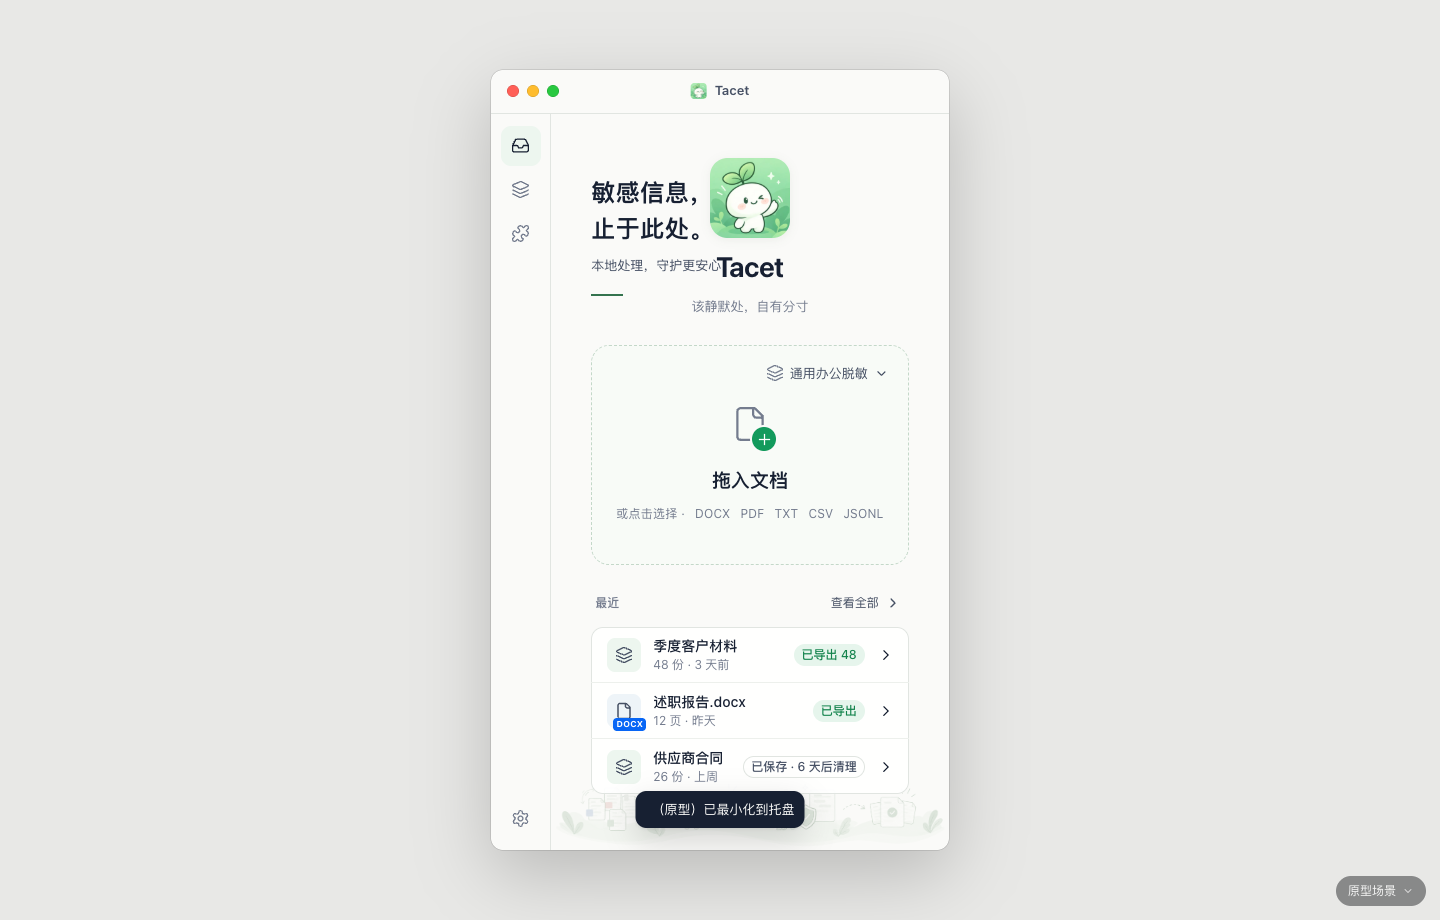
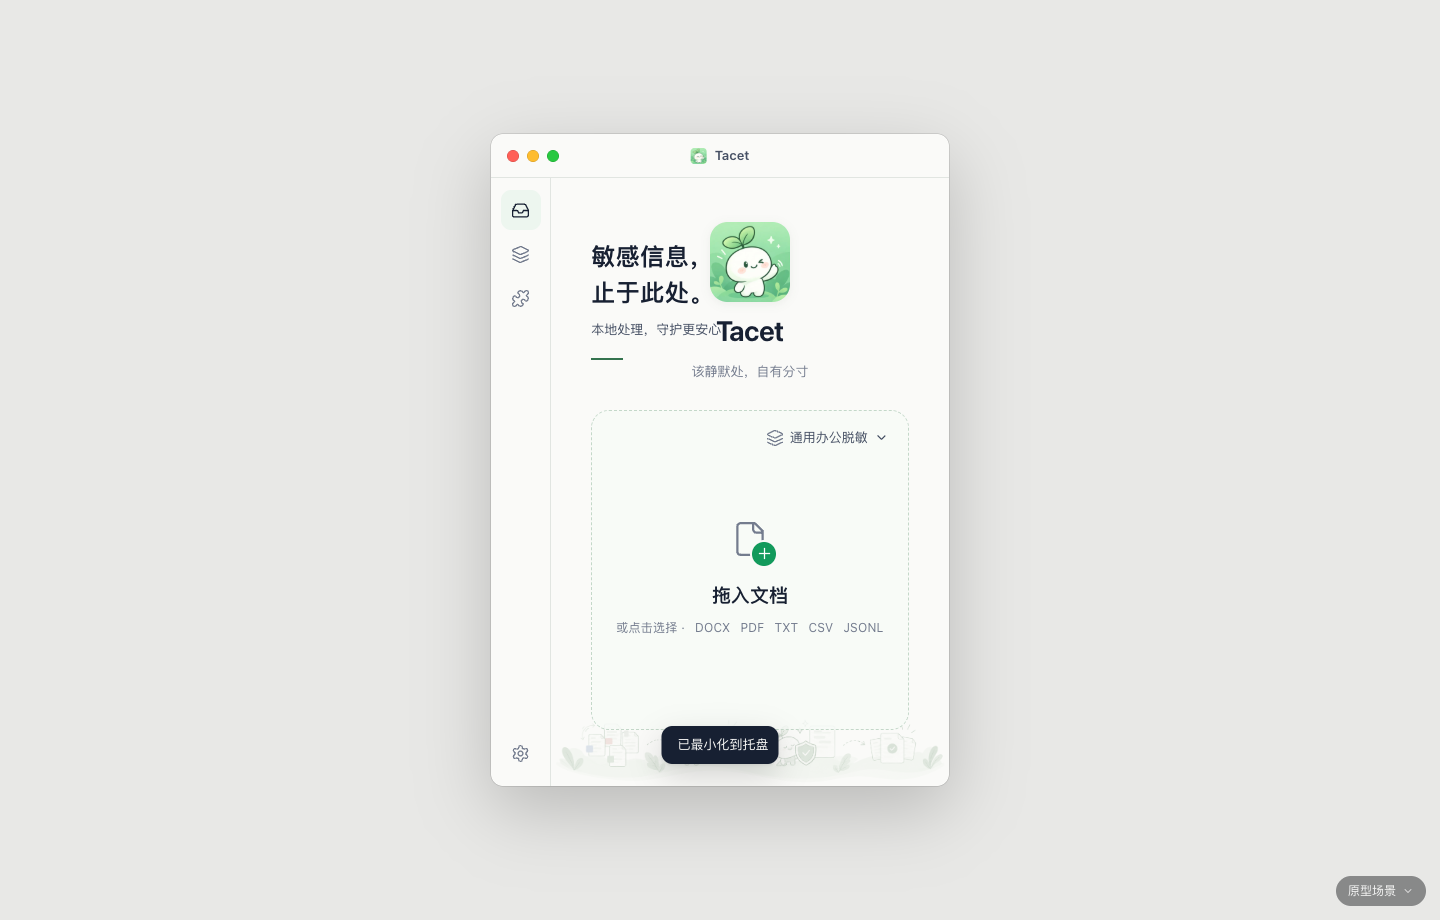
docs(ui): 📝 Refresh desktop shell walkthrough

diff --git a/frontend/docs/prototype-inventory.md b/frontend/docs/prototype-inventory.md
@@ -11,7 +11,8 @@
 | 领域数据 | `src/domain` | 类别、示例文档、批量例外分组、模型状态文案、场景清单、图标（逐字取自原型） |
 | 界面引擎 | `src/engine` | 原型脚本按小节移植为 TypeScript 模块（shell/layer/models/home/single/batch/review/presets/plugins/settings/actions/events/proto），行为、状态机与文案与原型一致；`runtime.ts` 承载 DOM 助手、确定性随机数与计时器句柄；`state.ts` 为单一状态对象 |
 | 服务接口 | `src/services` | `TacetService` 接口 + `mock`（浏览器/测试）与 `wails`（只实现 `Service.AppInfo`，与 internal/gui 现有绑定兼容）；下载、安装、更新、导出均为模拟，不伪造为真实现 |
-| 外壳 | `src/App.tsx` | React 渲染窗口外壳（标题栏、导航、主区、弹层、场景导航），引擎填充内容 |
+| 外壳 | `src/App.tsx`、`src/styles/host.css` | React 渲染窗口外壳；桌面宿主（Wails）下由系统画窗口框架，标题栏为拖拽区，浏览器下由引擎画替身窗口 |
+| 宿主 | `src/services`、`internal/gui/window.go` | 关闭/最小化/退出经 `TacetService`；Go 侧拦截用户关闭并发事件 `tacet:close-requested`，前端就绪（`CloseHandlerReady`）前保持原生关闭行为 |
 | 导航 | state `view` + `navStack` | 不使用路由库；任务（首页/单份/批量/历史结果）、方案、插件、设置；URL `#scene=` 直达场景 |
 | 测试 | `src/test`、`scripts` | Vitest + Testing Library（66 项）；`scripts/compare.mjs` 对 26 个场景逐字对比原型与实现的可见文本；`scripts/walkthrough.mjs` 无头浏览器走查并生成 `docs/walkthrough.md` 与截图 |
 
@@ -22,7 +23,7 @@
 ### 2.1 外壳
 - 标题栏：关闭窗口（含“最小化到托盘”提示与“有未完成任务”确认对话框：保存并关闭 / 停止并清理 / 取消）、返回按钮（返回任务/结果/批次/方案/规则/插件/设置）、标题（Tacet、文件名、批次名、导出清单、人工复核）、模型待下载入口、网络状态提示（本机处理 · 未联网 / 正在下载模型）
 - 左侧导航：任务（含批次待处理红点）、方案、插件、设置
-- 原型场景导航（右下角“原型场景”，URL `#scene=xxx`）：见 2.9
+- 场景导航（右下角“原型场景”，URL `#scene=xxx`，见 2.9）仅用于开发与测试：位于 `src/dev/`，由构建开关 `__SCENES__` 控制，生产构建不含；走查与对比脚本用 `npm run build:scenes` 构建
 - 弹层：菜单、气泡、对话框、抽屉、撤销提示（toast）
 
 ### 2.2 首页（任务）
